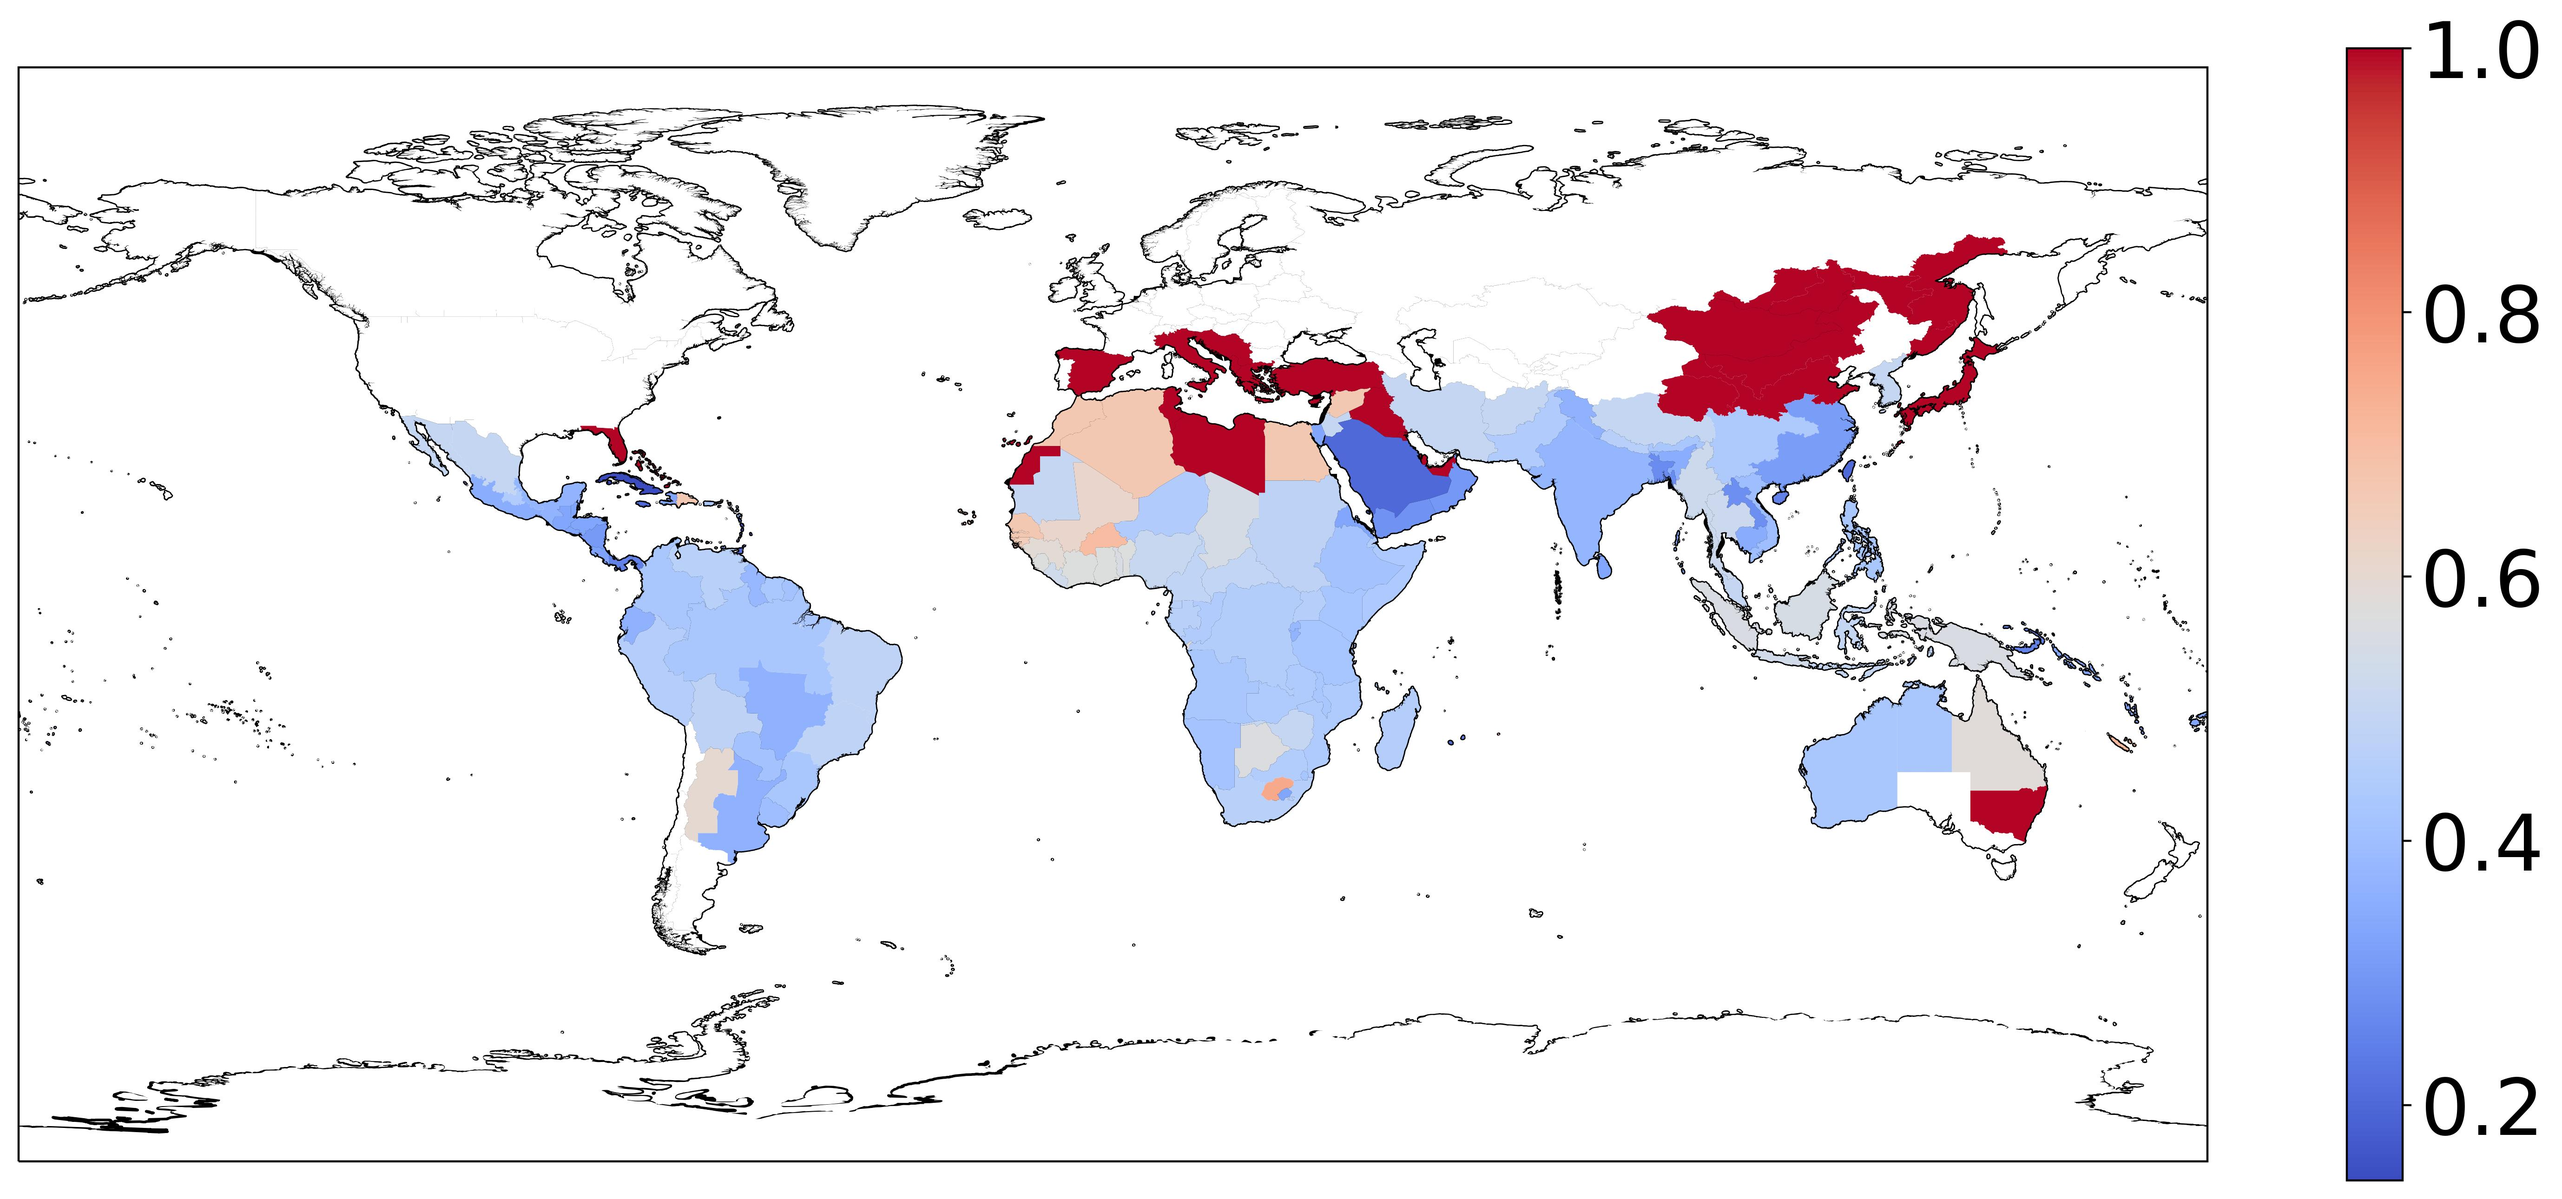
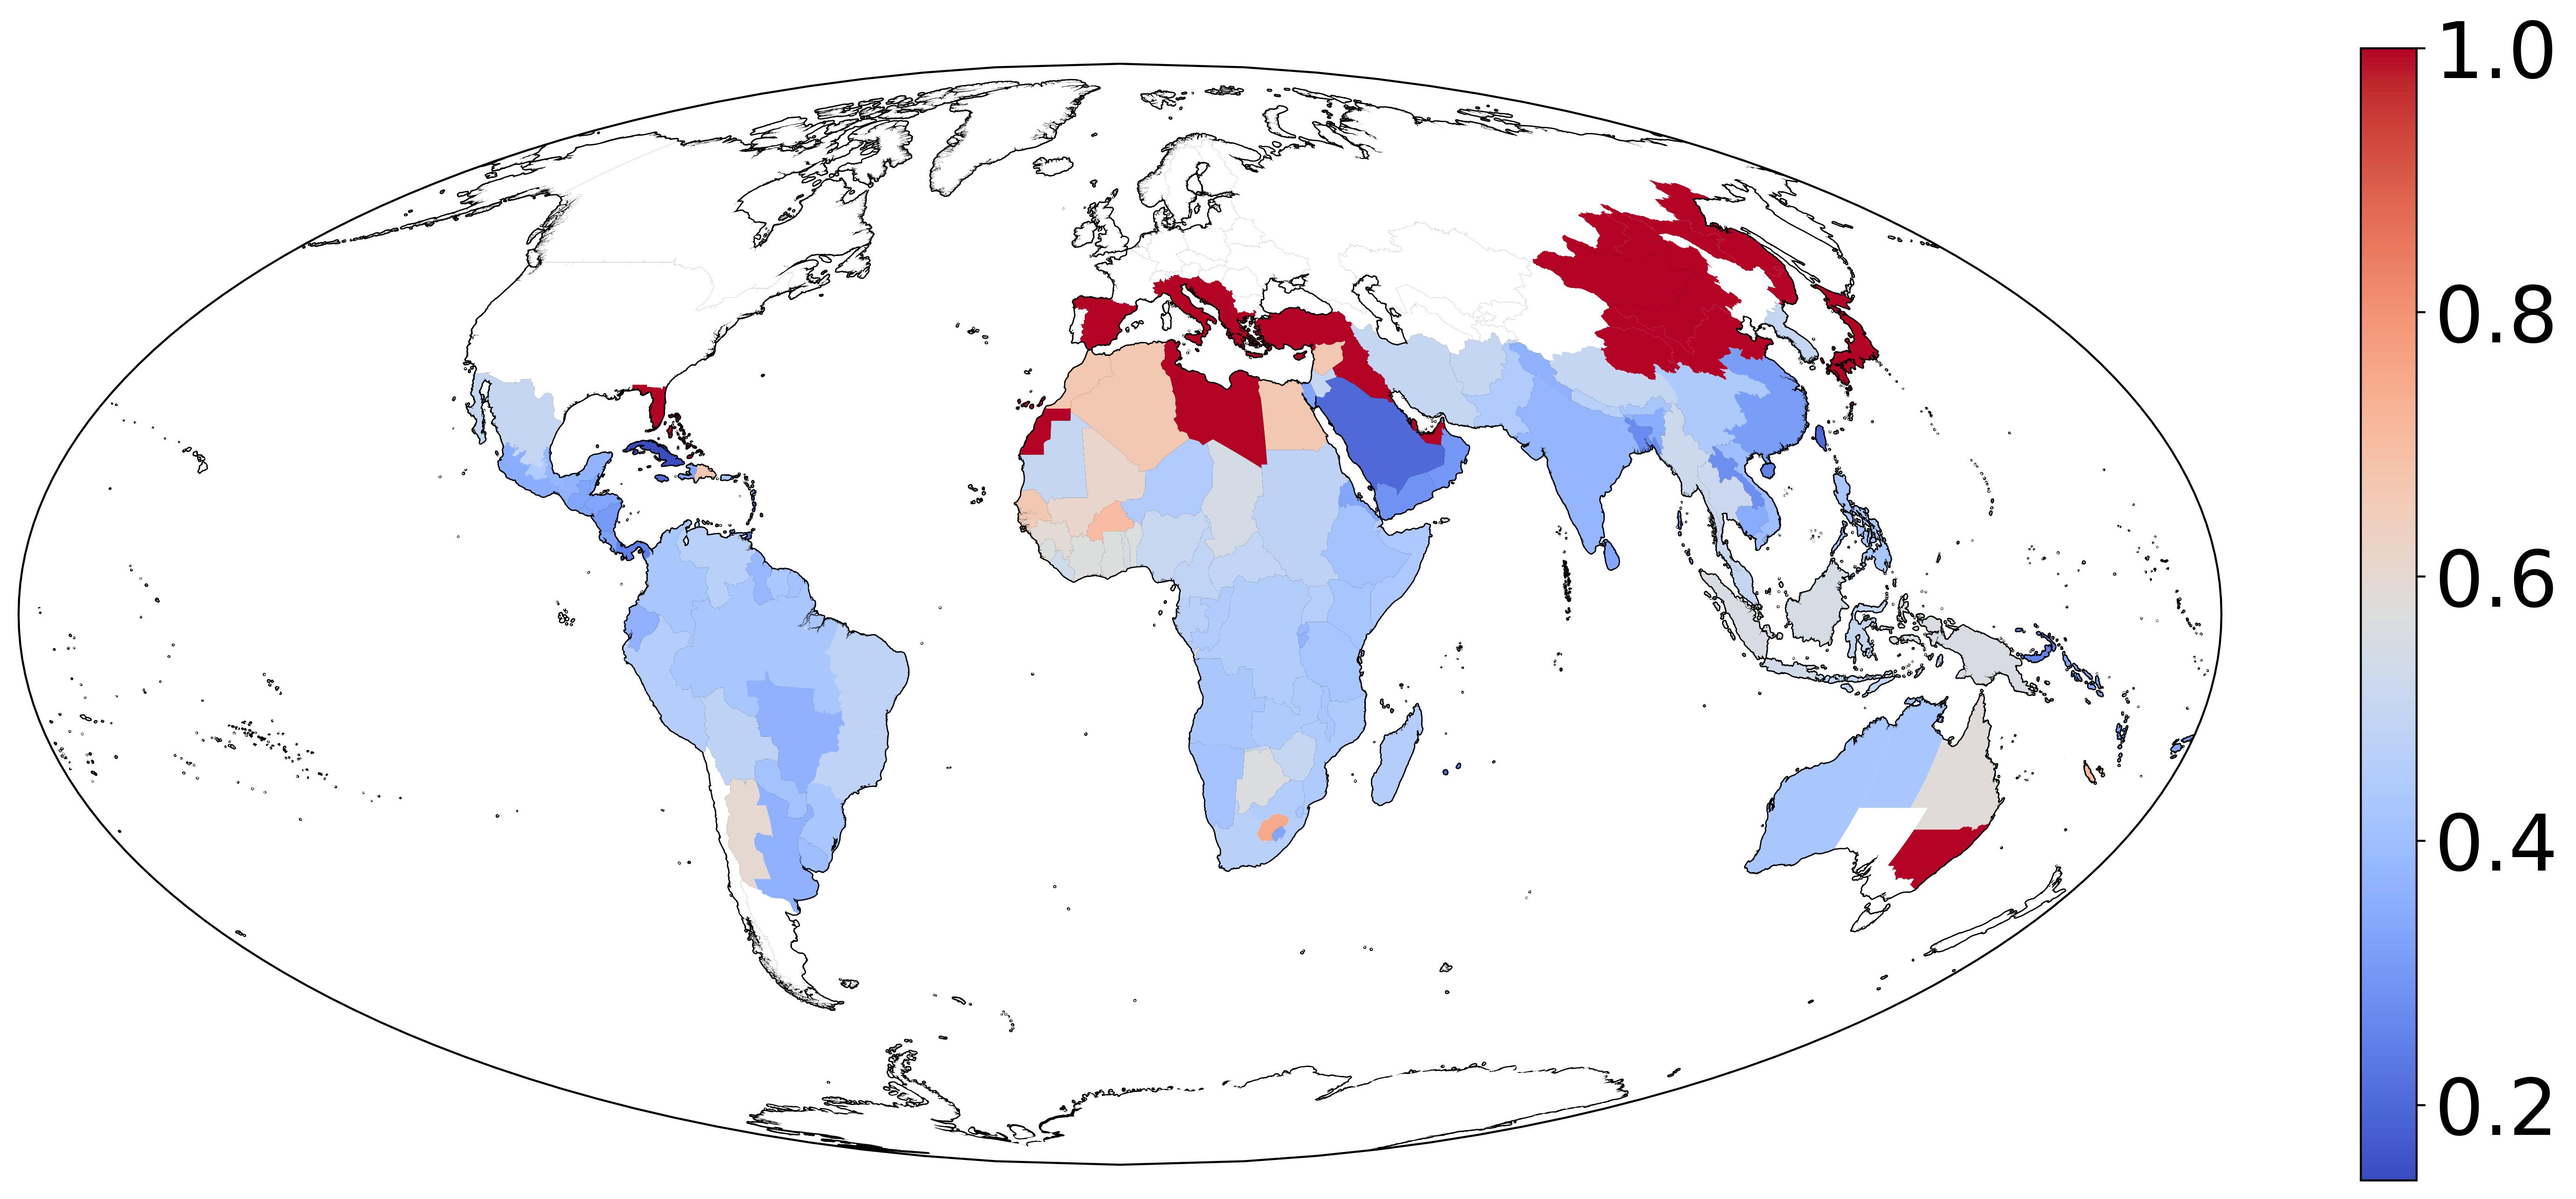
Use mollweide projection in plots

diff --git a/bias_correction_and_summaries/plot_distribution_antimalarial_species.py b/bias_correction_and_summaries/plot_distribution_antimalarial_species.py
@@ -2,8 +2,9 @@ import ast
 import os
 
 import pandas as pd
-from getting_malarial_regions import get_tdwg3_codes, plot_countries
+from getting_malarial_regions import get_tdwg3_codes
 from pkg_resources import resource_filename
+from typing import List
 
 from bias_correction_and_summaries import quantbias_output_dir
 from import_trait_data import IMPORTED_TRAIT_CSV, TARGET_COLUMN
@@ -44,15 +45,11 @@ def plot_number_species_in_regions(df: pd.DataFrame, output_path: str, title: st
     print('plotting countries')
 
     plt.figure(figsize=(15, 9.375))
-    # plt.xlim(-210, 210)
-    # plt.ylim(-60, 70)
-    # plt.xticks(fontsize=30)
-    # plt.yticks(fontsize=30)
     if title is not None:
         plt.title(title, fontsize=40)
-    ax = plt.axes(projection=ccrs.PlateCarree())
+    ax = plt.axes(projection=ccrs.Mollweide())
     ax.coastlines(resolution='10m')
-    ax.add_feature(cfeature.BORDERS, linewidth=5)
+    ax.add_feature(cfeature.BORDERS, linewidth=2)
 
     cmap = mpl.cm.get_cmap('coolwarm')
     for country in tdwg3_shp.records():
@@ -205,9 +202,56 @@ def plot_proportion_active():
                                                 'proportion_active_gt2lab_species_per_region.jpg'))
 
 
+def plot_countries(tdwg3_region_codes: List[str], output_path: str):
+    import matplotlib.pyplot as plt
+    import cartopy.crs as ccrs
+    import cartopy.feature as cfeature
+    import cartopy.io.shapereader as shpreader
+
+    tdwg3_shp = shpreader.Reader(
+        os.path.join(_inputs_path, 'wgsrpd-master', 'level3', 'level3.shp'))
+
+    print('plotting countries')
+
+    plt.figure(figsize=(15, 9.375))
+    ax = plt.axes(projection=ccrs.Mollweide())
+    ax.coastlines(resolution='10m')
+    ax.add_feature(cfeature.BORDERS, linewidth=2)
+    for country in tdwg3_shp.records():
+        tdwg_code = country.attributes['LEVEL3_COD']
+        if tdwg_code in tdwg3_region_codes:
+
+            # print(country.attributes['name_long'], next(earth_colors))
+            ax.add_geometries([country.geometry], ccrs.PlateCarree(),
+                              facecolor='orange',
+                              label=tdwg_code)
+
+            x = country.geometry.centroid.x
+            y = country.geometry.centroid.y
+
+            # ax.text(x, y, tdwg_code, color='black', size=10, ha='center', va='center',
+            #         transform=ccrs.PlateCarree())
+        else:
+            # print(f"code not in given malarial isocodes: {tdwg_code}")
+            ax.add_geometries([country.geometry], ccrs.PlateCarree(),
+                              facecolor='white',
+                              label=tdwg_code)
+
+    all_map_isos = [country.attributes['LEVEL3_COD'] for country in tdwg3_shp.records()]
+    missed_names = [x for x in tdwg3_region_codes if x not in all_map_isos]
+    print(f'iso codes not plotted on map: {missed_names}')
+    # plt.show()
+    plt.tight_layout()
+    # change the fontsize
+
+    plt.savefig(output_path, dpi=400, bbox_inches='tight')
+    plt.close()
+    plt.cla()
+    plt.clf()
+
 def plot_malarial_regions():
     codes = get_tdwg3_codes()
-    plot_countries(codes, 'Historical Malarial Regions',
+    plot_countries(codes,
                    os.path.join(_dist_output_dir, 'malarial_countries.jpg'))
 
 
